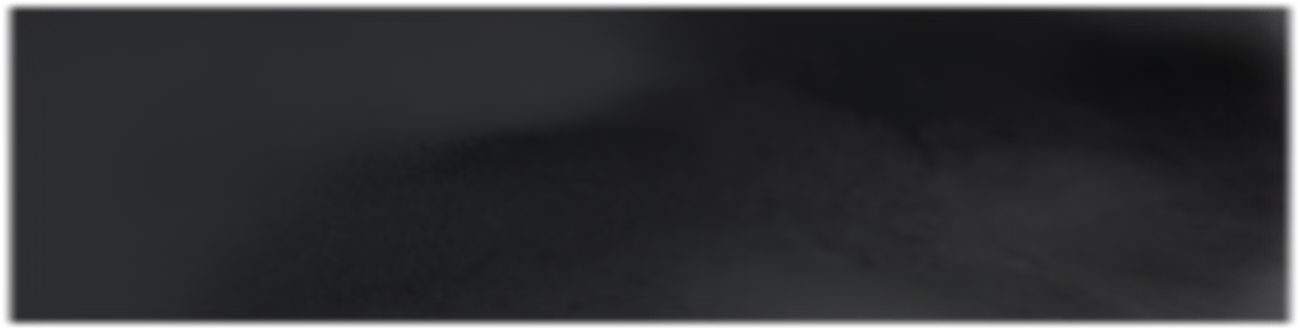
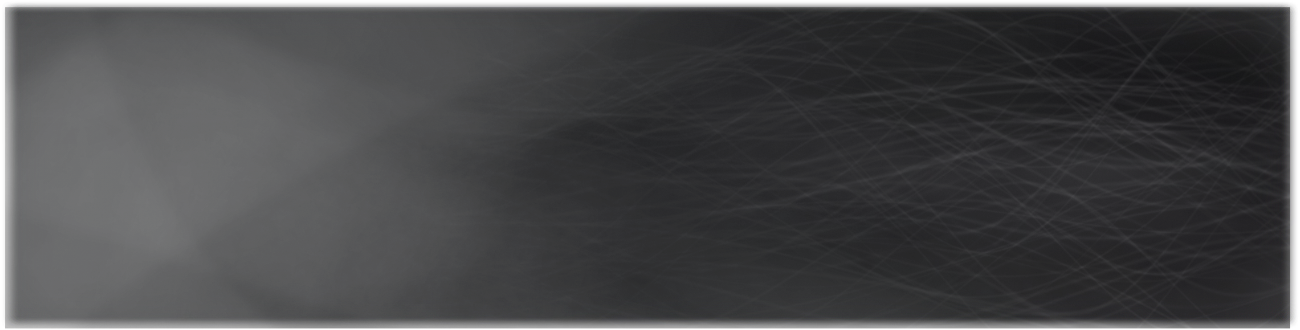
Update final public email signature

diff --git a/email/Signature-Responsive.html b/email/Signature-Responsive.html
@@ -1,13 +1,16 @@
 <!doctype html>
-<html lang="en"><head><meta charset="utf-8"><meta name="viewport" content="width=device-width,initial-scale=1"><title>Solar Sun — Public Signature</title></head>
+<html lang="en"><head><meta charset="utf-8"><meta name="viewport" content="width=device-width,initial-scale=1"><title>Solar X — Public Signature</title></head>
 <body style="margin:0;padding:0;">
-<table role="presentation" width="100%" border="0" cellpadding="0" cellspacing="0" style="width:100%;border-collapse:collapse;mso-table-lspace:0pt;mso-table-rspace:0pt;">
+<table role="presentation" width="100%" style="width:100%;">
 <tr><td background="assets/ink-feathered-v2.png" style="padding:28px 28px 28px 15%;background-color:transparent;background-image:url('assets/ink-feathered-v2.png');background-position:center;background-size:100% 100%;background-repeat:no-repeat;">
-<table role="presentation" width="100%" border="0" cellpadding="0" cellspacing="0" style="width:100%;border-collapse:collapse;color:#eeeeef;">
-<tr><td style="padding:0 0 18px;font-family:Arial,Helvetica,sans-serif;font-size:26px;font-weight:600;line-height:32px;color:#eeeeef;">Solar Sun</td></tr>
-<tr><td style="padding:0 0 14px;"><table role="presentation" width="30" border="0" cellpadding="0" cellspacing="0" style="width:30px;border-collapse:collapse;"><tr><td height="1" bgcolor="#bea171" style="height:1px;line-height:1px;font-size:1px;background-color:#bea171;">&nbsp;</td></tr></table></td></tr>
+<table role="presentation" width="100%" style="width:100%;color:#eeeeef;">
+<tr><td style="padding:0 0 18px;font-family:Arial,Helvetica,sans-serif;font-size:26px;font-weight:600;line-height:32px;color:#eeeeef;">Solar X</td></tr>
+<tr><td style="padding:0 0 14px;"><table role="presentation" width="30" style="width:30px;"><tr><td height="1" bgcolor="#bea171" style="height:1px;line-height:1px;font-size:1px;background-color:#bea171;">&nbsp;</td></tr></table></td></tr>
 <tr><td style="padding:0;font-family:'Courier New',monospace;font-size:13px;line-height:24px;color:#dddddf;"><a href="mailto:info@solar-pavilion.com" style="color:#dddddf;text-decoration:none;">info@solar-pavilion.com</a></td></tr>
 <tr><td style="padding:0;font-family:'Courier New',monospace;font-size:13px;line-height:24px;color:#dddddf;"><a href="tel:+31649540109" style="color:#dddddf;text-decoration:none;">+31 6 49540109</a></td></tr>
 <tr><td style="padding:0;font-family:'Courier New',monospace;font-size:13px;line-height:24px;color:#eeeeef;"><a href="https://solar-pavilion.com" style="color:#eeeeef;text-decoration:none;">solar-pavilion.com</a></td></tr>
 </table></td></tr></table>
+<!--[if mso]>
+<table role="presentation" width="100%" style="width:100%;"><tr><td style="padding:10px 0 0;font-family:Arial,Helvetica,sans-serif;font-size:11px;line-height:16px;color:#666666;">Due to the outdated version of your email client, some parts of this signature cannot be displayed.</td></tr></table>
+<![endif]-->
 </body></html>
